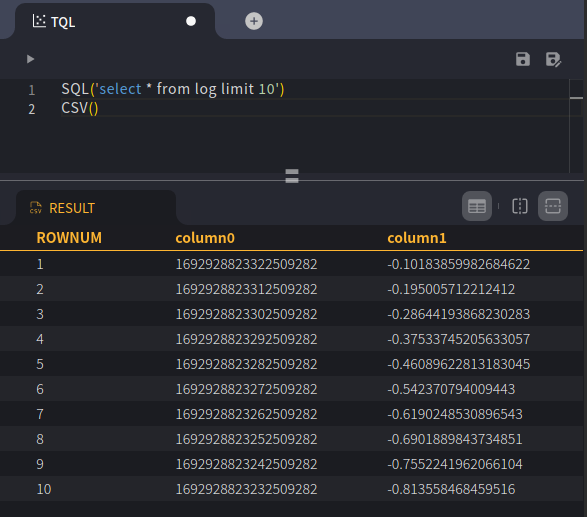
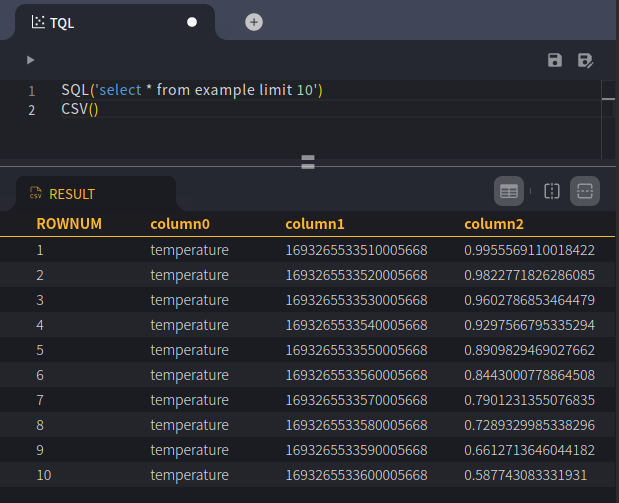
log table -> tag table

diff --git a/docs/tutorials/030.tql/30.tql-glance.md b/docs/tutorials/030.tql/30.tql-glance.md
@@ -16,7 +16,7 @@ layout: default
 > For smooth practice, the following query should be run to prepare tables and data.
 >
 > ```sql
-> CREATE TABLE LOG (TIME DATETIME, VALUE DOUBLE);
+> CREATE TAG TABLE IF NOT EXISTS EXAMPLE (NAME VARCHAR(20) PRIMARY KEY, TIME DATETIME BASETIME, VALUE DOUBLE SUMMARIZED);
 > ```
 >
 
@@ -74,9 +74,9 @@ Save this code as `hello.tql` (click save icon on the top right of the editor) a
 
 ## Insert Table
 
-Change `CSV()` to `APPEND(table("log"))` and execute again.
+Change `CSV()` to `INSERT("time", "value", table("example"), tag("temperature"))` and execute again.
 
-![web-tql-append](/assets/img/web-tql-append.png)
+![web-tql-insert](/assets/img/web-tql-insert.png)
 
 ## Select Table
 
